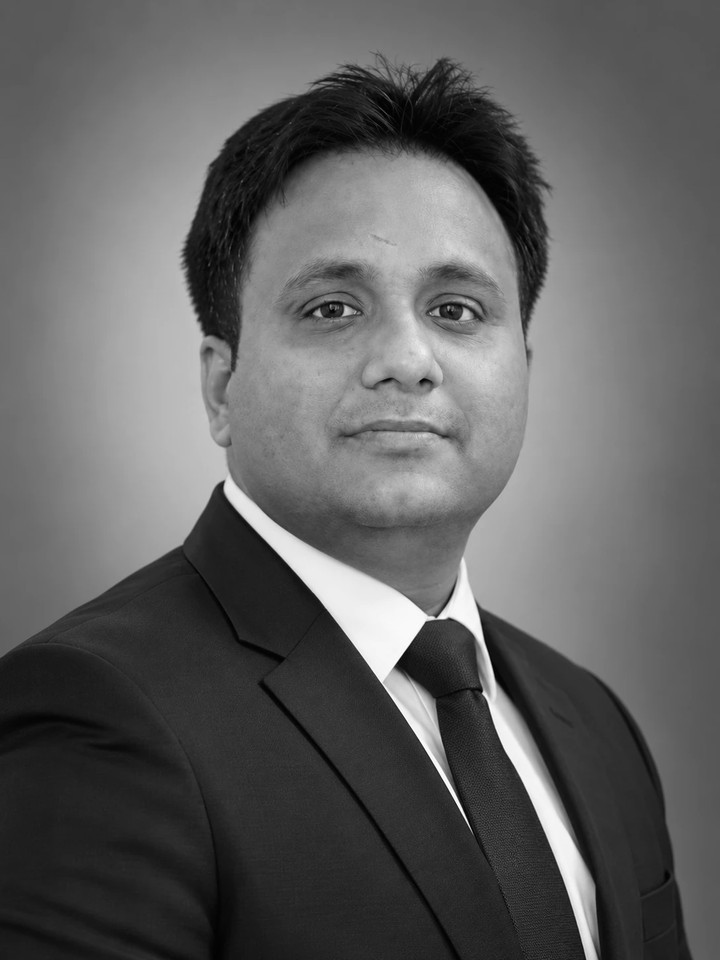
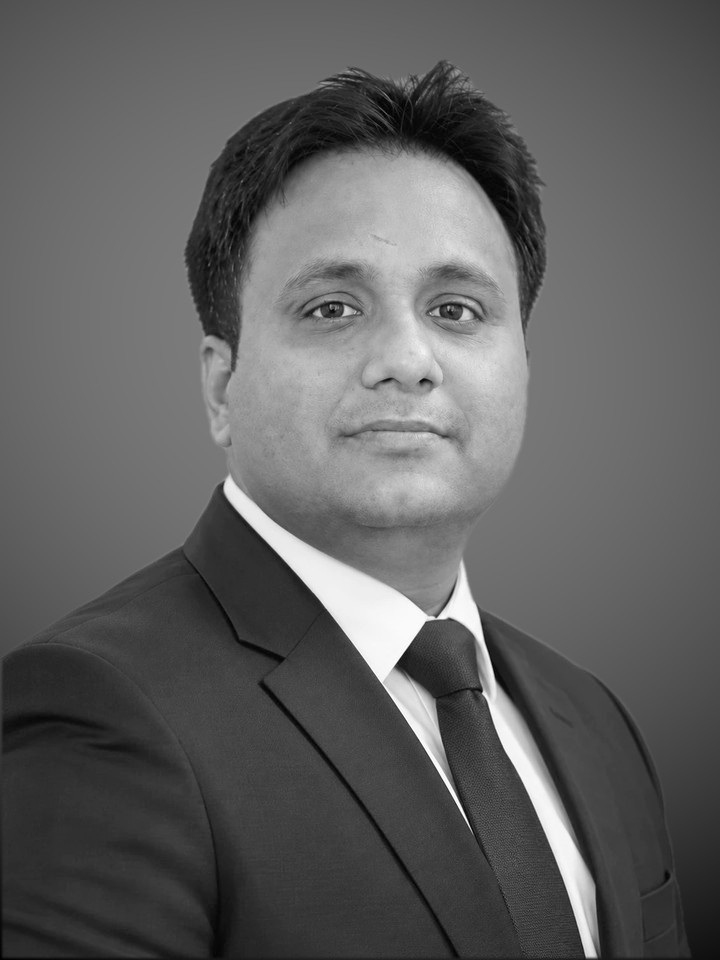
One backdrop and one exposure for the whole roster
Sumit's card is the one the client held up, so it sets the standard:
every portrait is now cut with person segmentation and composited onto
the same fitted plate, not just the two that could not be levelled. The
2026 shots each carried their own spotlight falloff, which read as seven
near-misses side by side; now the ground is identical.

Exposure follows, as a gamma that moves each face's median toward
Sumit's 182 — clamped at 0.80, so a dark frame moves most of the way and
never all of it. A face pushed all the way to a target is not an
exposure correction, it changes how the person looks; Asif's goes 114 to
133 and stops there. The founders take the same pass.

scripts/portraits/harmony.py is the step, on top of build + ground.

Changed region(s): [[0.0611, 0.0625, 0.5194, 0.6562], [0.6417, 0.1875, 1.0, 1.0], [0.0, 0.6875, 0.0306, 0.7188]]

diff --git a/scripts/portraits/harmony.py b/scripts/portraits/harmony.py
@@ -1,0 +1,44 @@
+"""Bring every portrait to one exposure and one backdrop.
+
+Exposure: a gamma that moves the face's median toward a common target, so the
+set reads as one lighting setup. It is clamped hard — a portrait that is far off
+moves most of the way, never all of it. Pushing a face all the way to a target
+does not correct exposure, it changes how the person looks.
+
+Backdrop: the subject is cut with Vision's person segmentation and composited
+onto the fitted plate, so every card carries the identical ground.
+"""
+from PIL import Image
+import numpy as np, subprocess, sys, os
+D = os.path.dirname(os.path.abspath(__file__))
+sys.path.insert(0, D)
+import ground
+
+TARGET = 182          # Sumit's face median: the card the client picked as the reference
+GAMMA_FLOOR = 0.80    # how far a dark frame may be lifted
+GAMMA_CEIL = 1.20     # …and a bright one pulled down
+
+def face_box(path):
+    line = subprocess.run([f'{D}/faces', path], capture_output=True, text=True).stdout.strip().split('\t')
+    if line[-1] == 'NONE': raise RuntimeError(f'no face in {path}')
+    return tuple(int(v) for v in line[-1].split(','))
+
+def face_median(a, box):
+    x, y, w, h = box
+    return float(np.median(a[y + int(h * .35):y + int(h * .75), x + int(w * .2):x + int(w * .8)]))
+
+def harmonise(path, target=TARGET):
+    a = np.asarray(Image.open(path).convert('L'), dtype=float)
+    box = face_box(path)
+    med = face_median(a, box)
+    g = np.log(target / 255) / np.log(max(med, 1) / 255)
+    g = min(max(g, GAMMA_FLOOR), GAMMA_CEIL)
+    a = 255 * np.power(np.clip(a, 0, 255) / 255, g)
+    Image.fromarray(np.clip(a, 0, 255).astype('uint8')).save(path, quality=90, optimize=True, progressive=True)
+    after = face_median(np.asarray(Image.open(path).convert('L'), dtype=float), box)
+    ground.reground(path, path)
+    print(f'{os.path.basename(path):24} face {med:3.0f} -> {after:3.0f}  (gamma {g:.2f})')
+
+if __name__ == '__main__':
+    for p in sys.argv[1:]:
+        harmonise(p)
